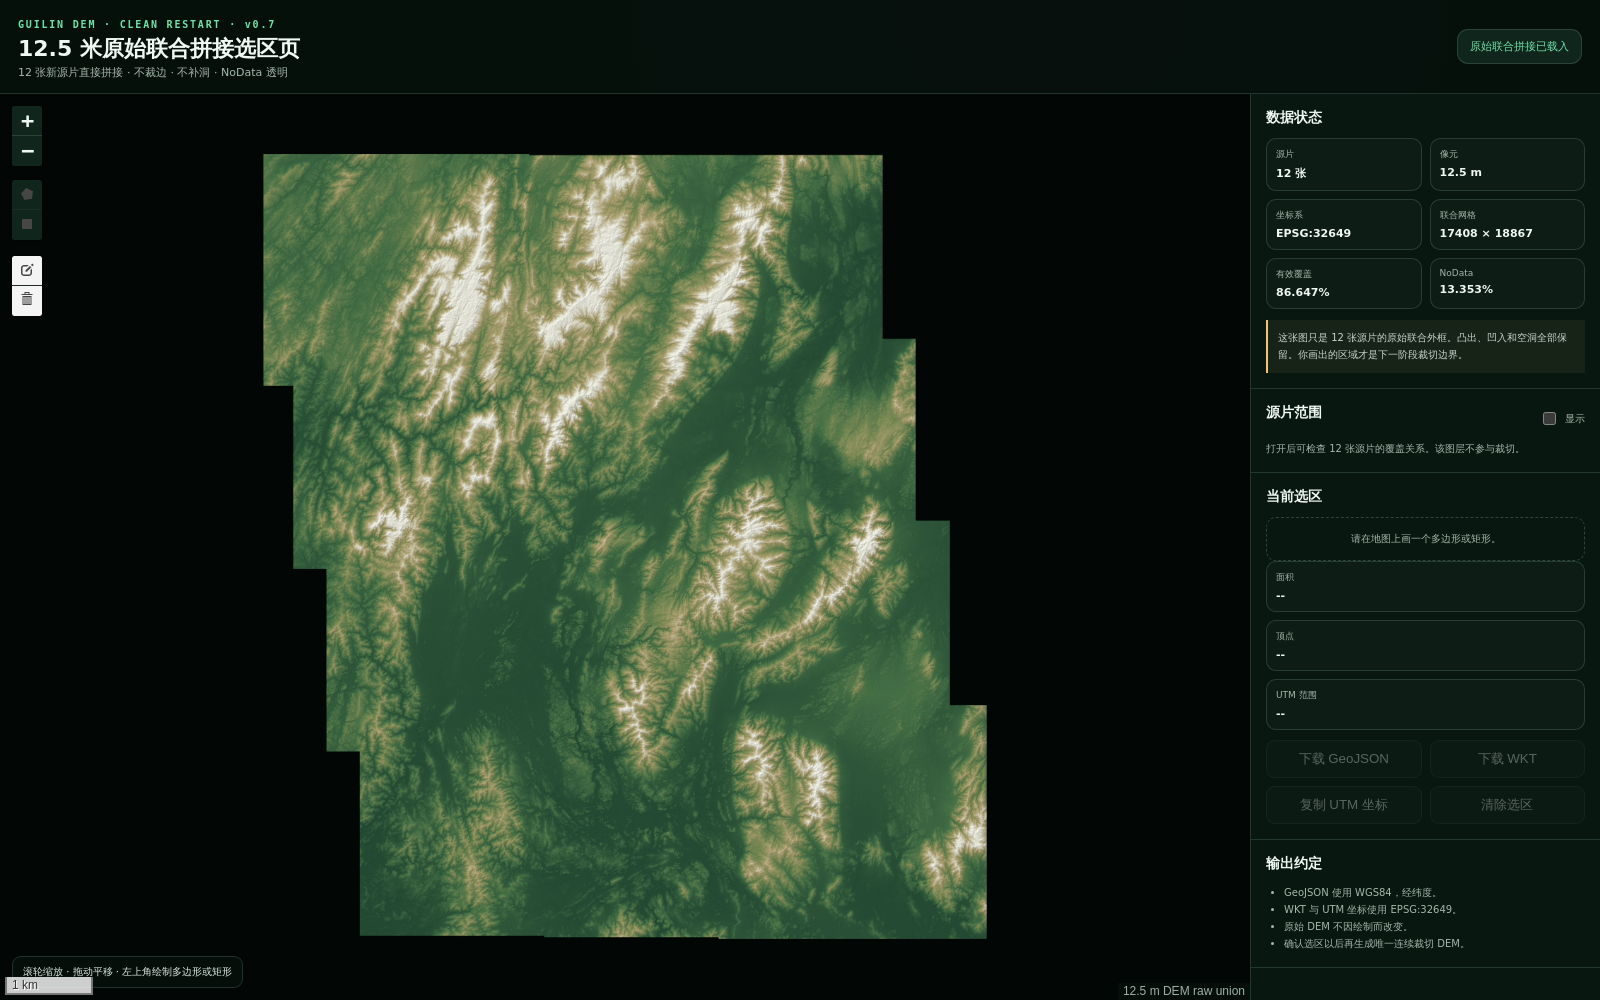
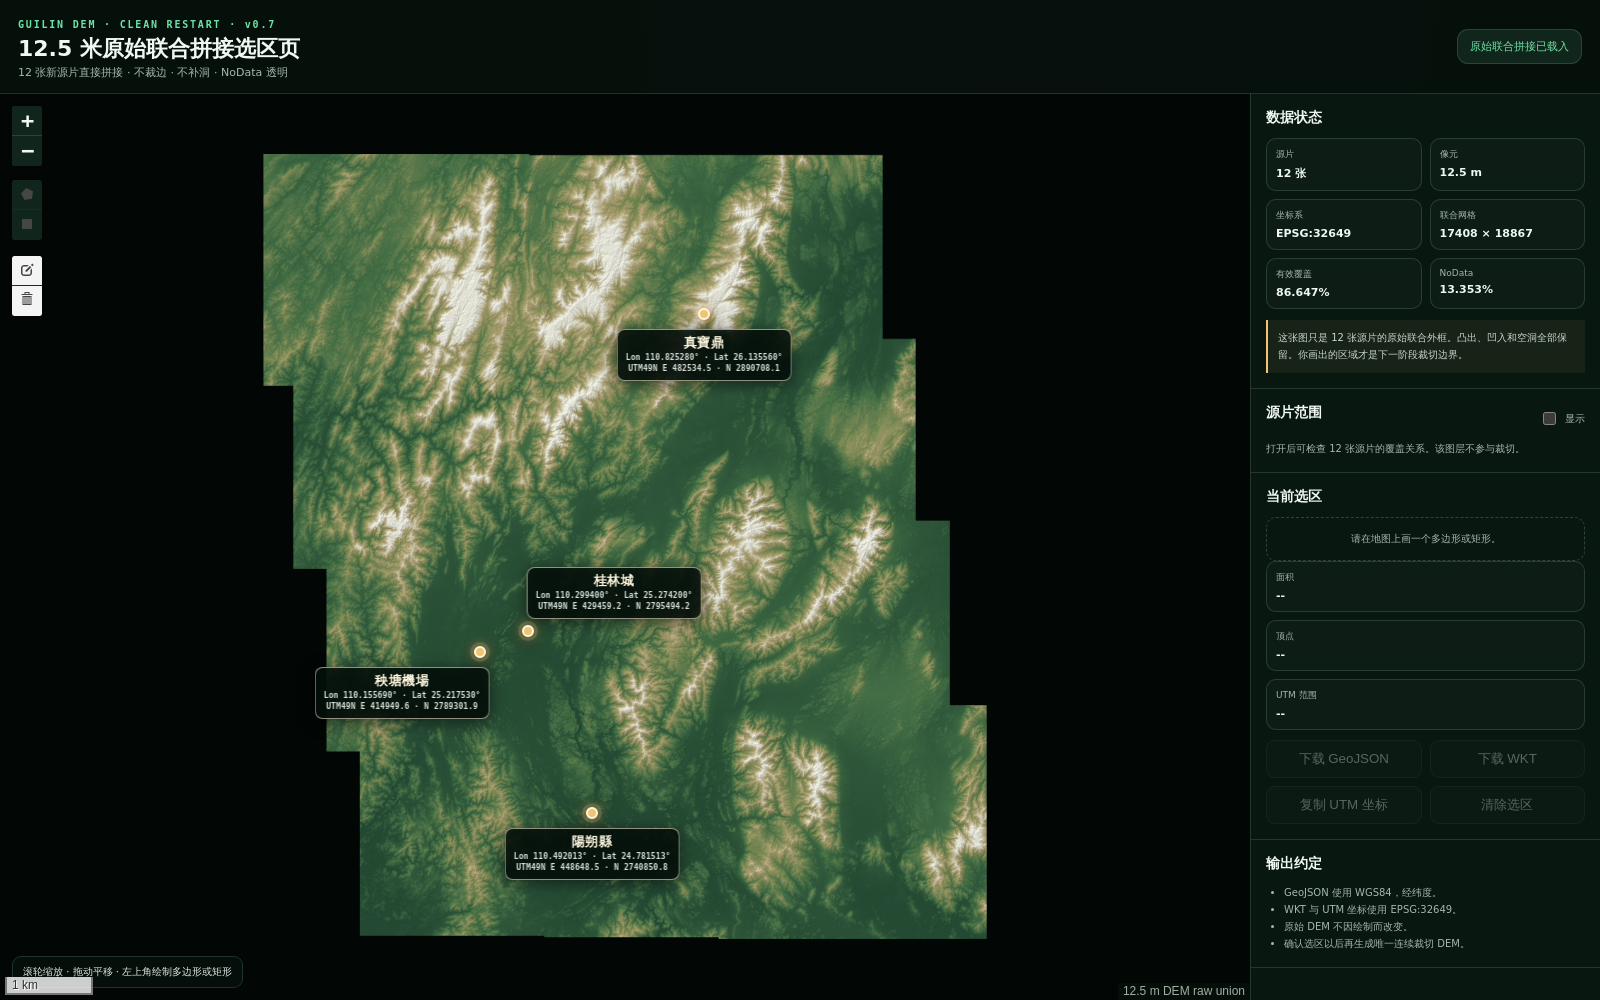
Publish Guilin v0.7 raw mosaic AOI page from 5b8bafaf985469b7ce3dcac863ffa604d1ee813e 5b8bafaf985469b7ce3dcac863ffa604d1ee813e

diff --git a/guilin-v070-selection/index.html b/guilin-v070-selection/index.html
@@ -6,7 +6,70 @@
   <title>桂林 12.5 米原始联合拼接选区</title>
   <link rel="stylesheet" href="https://unpkg.com/leaflet@1.9.4/dist/leaflet.css" crossorigin="" />
   <link rel="stylesheet" href="https://cdnjs.cloudflare.com/ajax/libs/leaflet.draw/1.0.4/leaflet.draw.css" />
-  <link rel="stylesheet" href="./styles.css" />
+  <link rel="stylesheet" href="./styles.css?v=0702" />
+  <style>
+    .place-marker-icon {
+      background: transparent !important;
+      border: 0 !important;
+    }
+    .place-marker {
+      position: relative;
+      width: 0;
+      height: 0;
+      transform: translate(-50%, -50%);
+      pointer-events: none;
+      filter: drop-shadow(0 3px 8px rgba(0, 0, 0, 0.62));
+    }
+    .place-marker-dot {
+      position: absolute;
+      left: -6px;
+      top: -6px;
+      width: 12px;
+      height: 12px;
+      border: 2px solid #fff8df;
+      border-radius: 50%;
+      background: #f0c474;
+      box-shadow: 0 0 0 4px rgba(240, 196, 116, 0.18), 0 0 14px rgba(240, 196, 116, 0.88);
+    }
+    .place-marker-card {
+      position: absolute;
+      left: var(--label-x, 0px);
+      top: var(--label-y, 15px);
+      min-width: 168px;
+      padding: 6px 8px 5px;
+      transform: translateX(-50%);
+      border: 1px solid rgba(255, 248, 223, 0.55);
+      border-radius: 8px;
+      background: rgba(5, 16, 11, 0.88);
+      color: #fff8df;
+      text-align: center;
+      white-space: nowrap;
+      backdrop-filter: blur(7px);
+    }
+    .place-marker-card strong {
+      display: block;
+      margin-bottom: 3px;
+      font-family: "PingFang TC", "Microsoft JhengHei", "Noto Sans TC", sans-serif;
+      font-size: 13px;
+      font-weight: 850;
+      line-height: 1.1;
+      letter-spacing: 0.06em;
+    }
+    .place-marker-card small {
+      display: block;
+      color: #d5e0d9;
+      font: 700 8px/1.35 ui-monospace, SFMono-Regular, Consolas, monospace;
+      letter-spacing: 0.01em;
+    }
+    @media (max-width: 820px) {
+      .place-marker-card {
+        min-width: 142px;
+        padding: 5px 6px 4px;
+      }
+      .place-marker-card strong { font-size: 11px; }
+      .place-marker-card small { font-size: 7px; }
+    }
+  </style>
 </head>
 <body>
   <header>
@@ -77,6 +140,77 @@
   <script src="https://unpkg.com/leaflet@1.9.4/dist/leaflet.js" crossorigin=""></script>
   <script src="https://cdnjs.cloudflare.com/ajax/libs/leaflet.draw/1.0.4/leaflet.draw.js"></script>
   <script src="https://cdnjs.cloudflare.com/ajax/libs/proj4js/2.11.0/proj4.js"></script>
-  <script src="./app.js"></script>
+  <script>
+    (() => {
+      const places = [
+        { id: 'yangshuo', name: '陽朔縣', lon: 110.4920133, lat: 24.7815129, labelX: 0, labelY: 15 },
+        { id: 'yangtang', name: '秧塘機場', lon: 110.15569, lat: 25.21753, labelX: -78, labelY: 15 },
+        { id: 'guilin', name: '桂林城', lon: 110.2994, lat: 25.2742, labelX: 86, labelY: -64 },
+        { id: 'zhenbaoding', name: '真寶鼎', lon: 110.82528, lat: 26.13556, labelX: 0, labelY: 15 },
+      ];
+
+      const originalMapFactory = L.map;
+      let resolveMap;
+      const mapReady = new Promise(resolve => { resolveMap = resolve; });
+      L.map = function (...args) {
+        const instance = originalMapFactory.apply(L, args);
+        resolveMap(instance);
+        return instance;
+      };
+
+      const manifestReady = fetch('./data/mosaic_manifest.json', { cache: 'no-store' }).then(response => {
+        if (!response.ok) throw new Error(`地標清單读取失败：${response.status}`);
+        return response.json();
+      });
+
+      function utmToSimple(manifest, x, y) {
+        const [west, south, east, north] = manifest.mosaic_bounds_epsg32649;
+        const lng = ((x - west) / (east - west)) * manifest.preview.width;
+        const lat = ((y - south) / (north - south)) * manifest.preview.height;
+        return L.latLng(lat, lng);
+      }
+
+      function iconFor(place, easting, northing) {
+        return L.divIcon({
+          className: 'place-marker-icon',
+          iconSize: [0, 0],
+          iconAnchor: [0, 0],
+          html: `<div class="place-marker" data-place-id="${place.id}" lang="zh-Hant">
+            <span class="place-marker-dot" aria-hidden="true"></span>
+            <span class="place-marker-card" style="--label-x:${place.labelX}px;--label-y:${place.labelY}px">
+              <strong>${place.name}</strong>
+              <small>Lon ${place.lon.toFixed(6)}° · Lat ${place.lat.toFixed(6)}°</small>
+              <small>UTM49N E ${easting.toFixed(1)} · N ${northing.toFixed(1)}</small>
+            </span>
+          </div>`,
+        });
+      }
+
+      Promise.all([mapReady, manifestReady]).then(([map, manifest]) => {
+        let pane = map.getPane('landmarkLabelsPane');
+        if (!pane) pane = map.createPane('landmarkLabelsPane');
+        pane.style.zIndex = '650';
+        pane.style.pointerEvents = 'none';
+
+        const markers = places.map(place => {
+          const [easting, northing] = proj4('EPSG:4326', 'EPSG:32649', [place.lon, place.lat]);
+          return L.marker(utmToSimple(manifest, easting, northing), {
+            pane: 'landmarkLabelsPane',
+            icon: iconFor(place, easting, northing),
+            interactive: false,
+            keyboard: false,
+            zIndexOffset: 1000,
+          });
+        });
+
+        window.__GUILIN_LANDMARK_LAYER = L.layerGroup(markers).addTo(map);
+        window.__GUILIN_LANDMARKS_READY = true;
+      }).catch(error => {
+        console.error(error);
+        window.__GUILIN_LANDMARKS_READY = false;
+      });
+    })();
+  </script>
+  <script src="./app.js?v=0702"></script>
 </body>
 </html>
